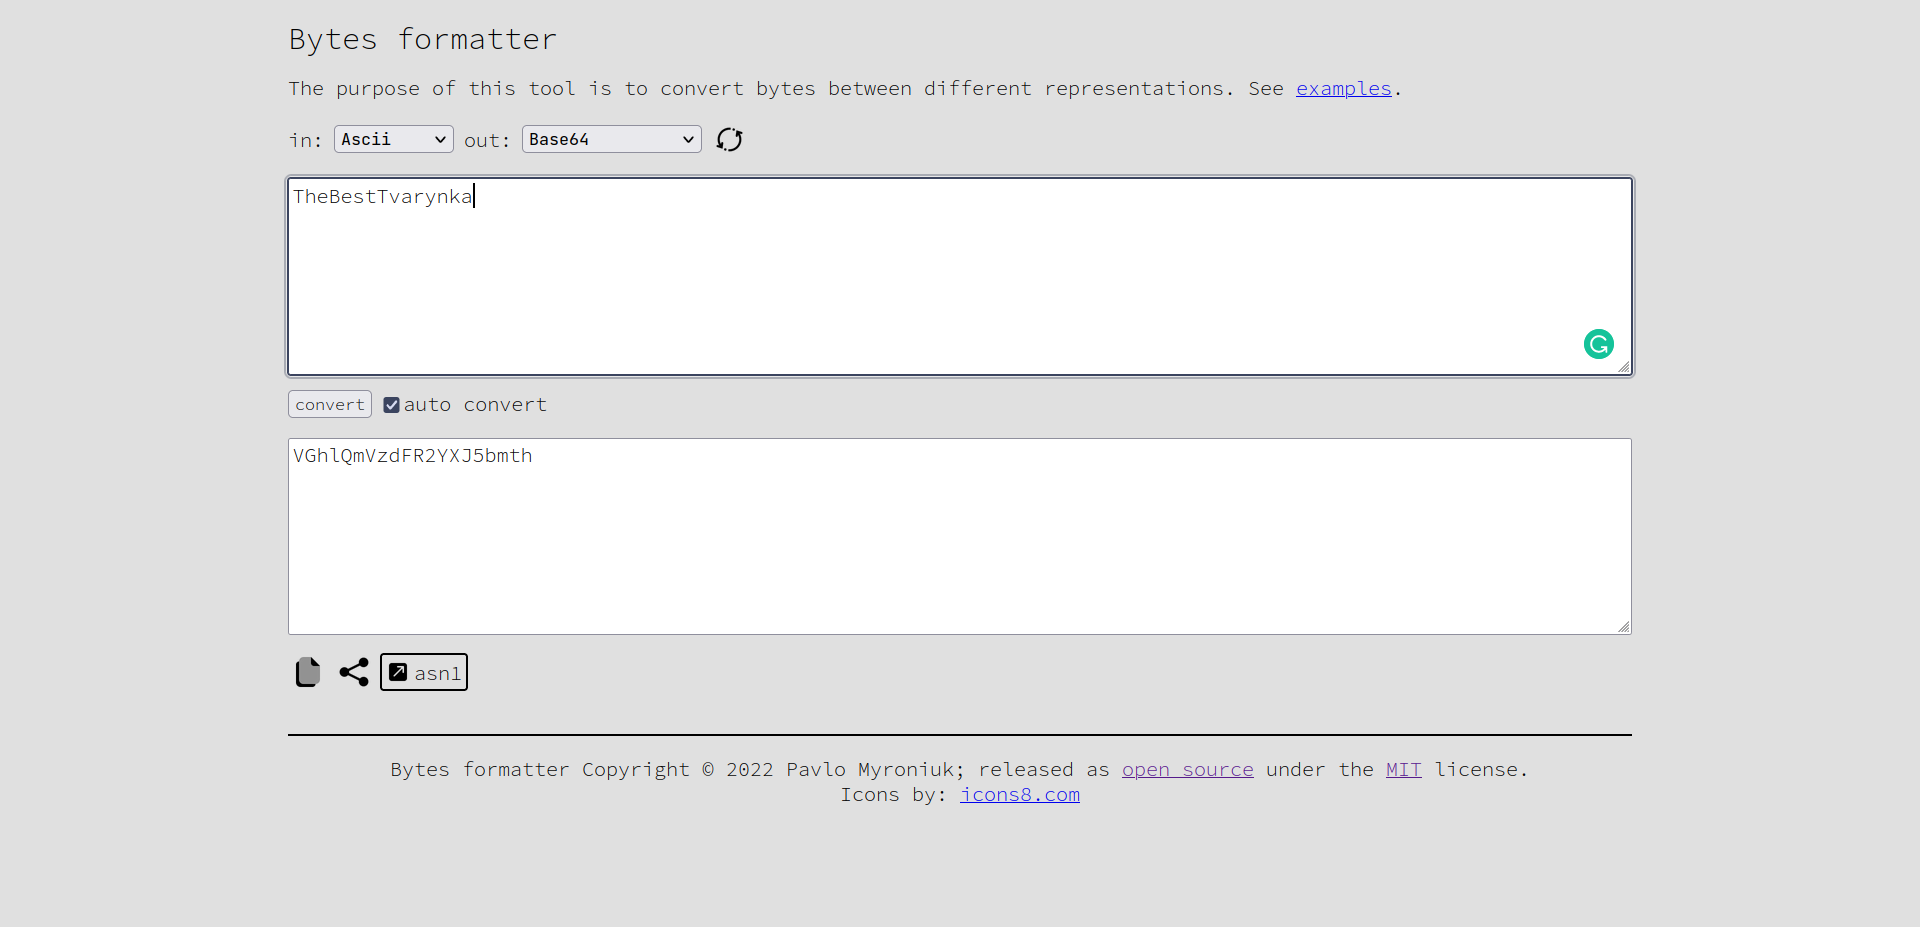
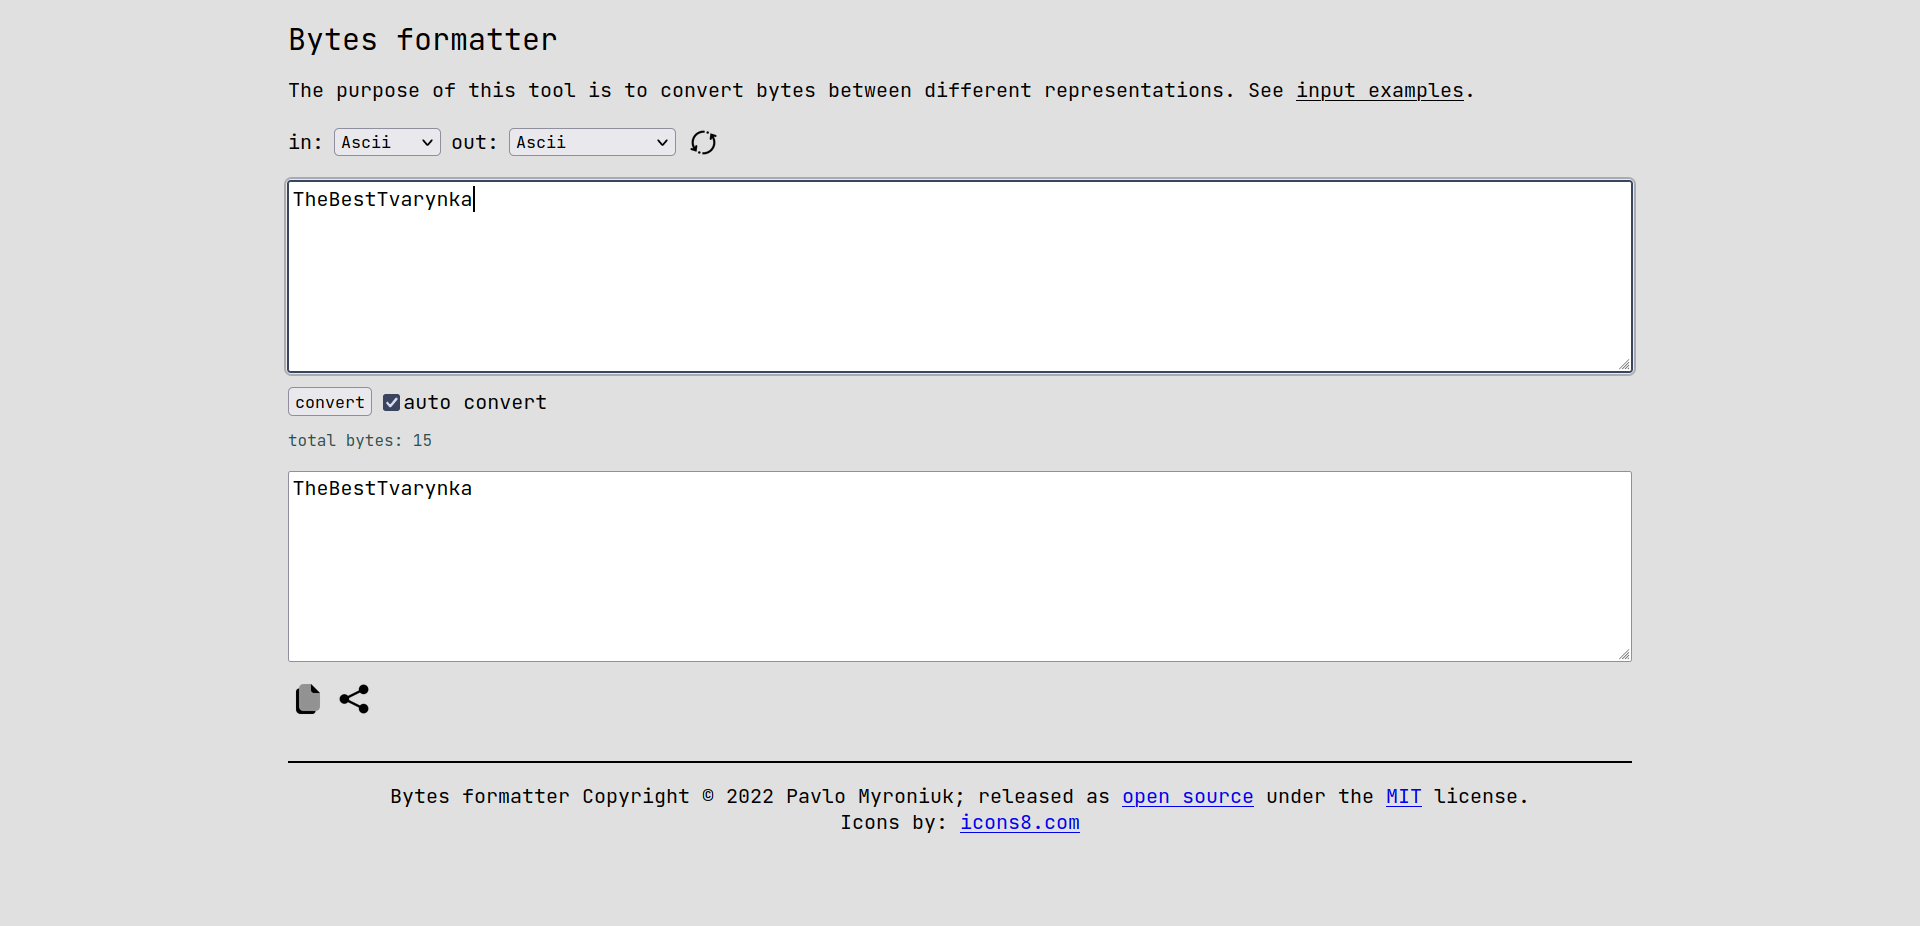
replace example image on README.md; fix bytes counter initial value;

diff --git a/src/index.html b/src/index.html
@@ -98,7 +98,7 @@
             </label>
         </div>
         <div class="tools">
-            <span class="totalBytes">total bytes: <span id="bytesCounter">4</span></span>
+            <span class="totalBytes">total bytes: <span id="bytesCounter">0</span></span>
         </div>
         <textarea id="outData" placeholder="Output data..." readonly rows="7"></textarea>
         <div class="tools">
